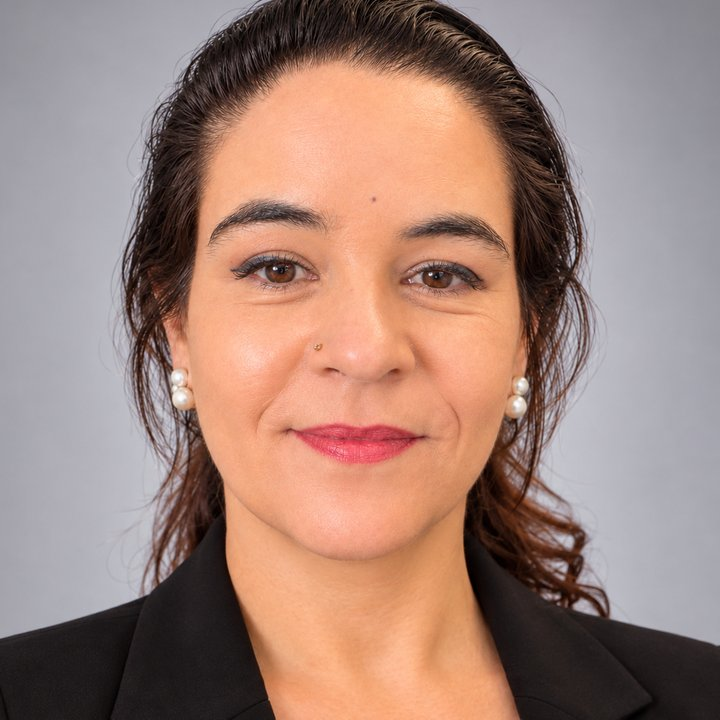
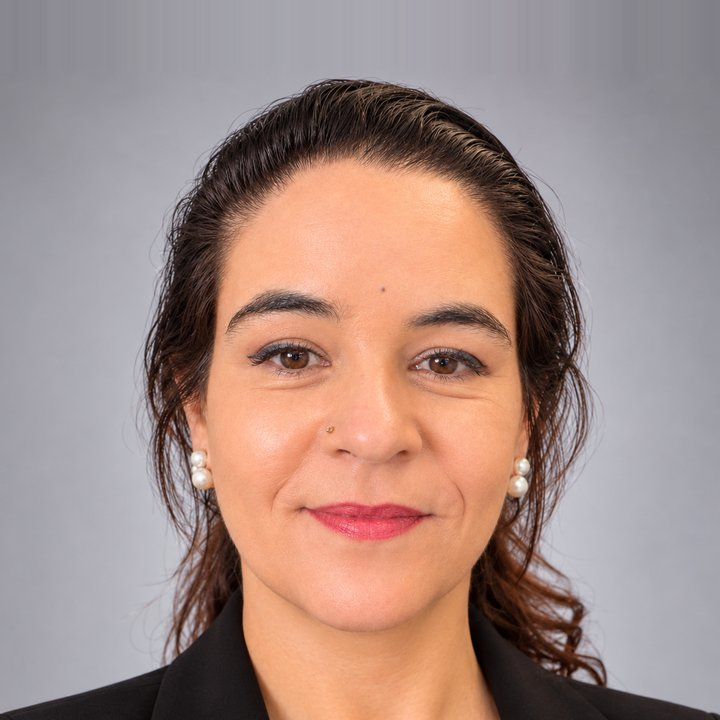
Foto da Caroline: espaço acima da cabeça para não cortar o cabelo

diff --git a/index.html b/index.html
@@ -192,7 +192,7 @@
         <div class="team">
           <figure class="member reveal"><img src="assets/img/equipe/mae.jpg?v=2" alt="Foto de Denise" width="360" height="360" loading="lazy"><h3>Denise</h3><p>Sócia-diretora</p></figure>
           <figure class="member reveal"><img src="assets/img/equipe/dayse.jpg?v=2" alt="Foto de Dayse" width="360" height="360" loading="lazy"><h3>Dayse</h3><p>Sócia-diretora</p></figure>
-          <figure class="member reveal"><img src="assets/img/equipe/carol.jpg?v=2" alt="Foto de Caroline" width="360" height="360" loading="lazy"><h3>Caroline</h3><p>Coordenadora de projetos</p></figure>
+          <figure class="member reveal"><img src="assets/img/equipe/carol.jpg?v=3" alt="Foto de Caroline" width="360" height="360" loading="lazy"><h3>Caroline</h3><p>Coordenadora de projetos</p></figure>
           <figure class="member reveal"><img src="assets/img/equipe/jr.jpg?v=2" alt="Foto de Marcos Jr." width="360" height="360" loading="lazy"><h3>Marcos Jr.</h3><p>Coordenador de projetos</p></figure>
         </div>
       </div>
